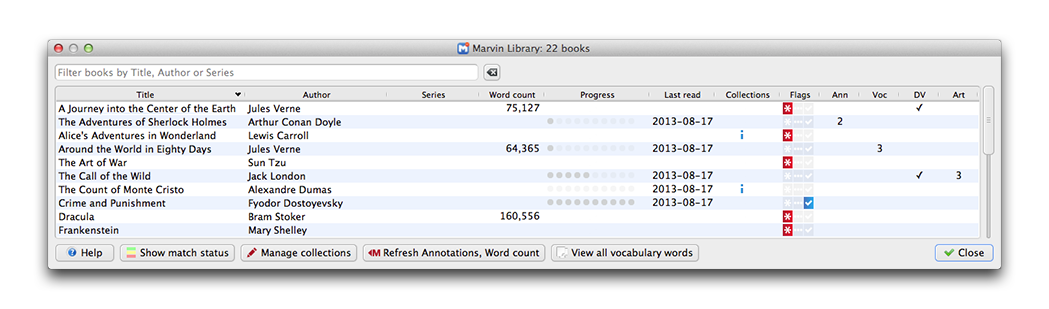
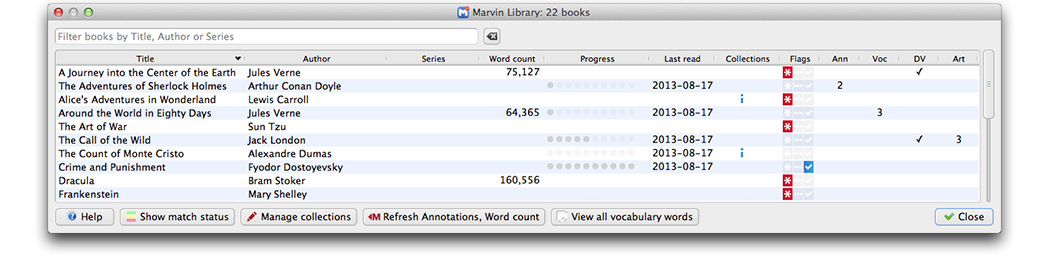
Updated Help file, trimmed Marvin Library image.

diff --git a/help/help.html b/help/help.html
@@ -138,7 +138,8 @@
 <! ~~~~~~~~~~~~~~~ Overview ~~~~~~~~~~~~~~~>
 <div class="topic">
 <h3><a name="overview" id="overview"></a>1. <a href="#toc">Overview</a></h3>
-<p>Marvin XD is an extended driver, offering  advanced remote management of your Marvin library. Think of Marvin XD as a remote control for Marvin. </p><p><img src="images/marvin_library.png" alt=""/></p>
+<p>Marvin XD is an extended driver, offering  advanced  management features for your Marvin library. Think of Marvin XD as a remote control for Marvin. </p>
+<p><img src="images/marvin_library.png" alt=""/></p>
   <div class="list_with_header">
     <p>Features:</p>
     <ul>
@@ -248,11 +249,13 @@
 <hr />
 
 <div class="usage">
-<p class="usage-topic">How do I control which columns are shown or hidden?</p>
+<p class="usage-topic">How do I control which columns are shown or hidden? How do I resize the column widths?</p>
 <img src="images/visible_columns.png" alt="" class="inline" />
-<p class="usage-explanation">To manage visible columns, open Marvin XD, then right-click on any column header. Enable or disable the columns by clicking the individual column name.</p>
+<p class="usage-explanation">To manage visible columns, open Marvin XD, then right-click on any column header. Enable or disable the columns by toggling the checkbox next to the  column name.</p>
 <p class="usage-explanation">When Marvin XD is installed, <strong>Date added</strong>, <strong>Last read</strong> and <strong>Subjects</strong> are hidden by default. </p>
-<p class="usage-explanation"><strong>Title</strong> is always shown; all other columns may be hidden.</p>
+<p class="usage-explanation"><strong>Title</strong> is always shown; all other columns may be shown or hidden.</p>
+<p class="usage-explanation">You can resize individual column widths by positioning your cursor at the right edge of a column header, then clicking and dragging. </p>
+<p class="usage-explanation">The layout of visible columns and columns widths is preserved when closing the Marvin XD window.</p>
 
 <p style="clear:left;">&nbsp;</p>
 </div>
@@ -293,7 +296,7 @@
 <! ~~~~~~~~~~~~~~~ Index of Actions ~~~~~~~~~~~~~~~>
 <div class="topic">
 <h3><a name="actions" id="actions"></a>5. <a href="#toc">Actions reference</a></h3>
-<p>Actions in Marvin XD are initiated by double-clicking a cell, selecting an action from a cell's context menu, or clicking a button in the main window. Hover the cursor over a cell to learn more about the available options.</p>
+<p>Actions in Marvin XD are initiated by double-clicking a cell, selecting an action from a cell's context menu, or clicking a button in the main window. Hover the cursor over a cell in the Marvin XD window to see the available actions for that cell.</p>
 <table width="100%" border="1">
   <tr class="header">
     <th scope="col">Action</th>
@@ -599,7 +602,7 @@
 <! ~~~~~~~~~~~~~~~ Support ~~~~~~~~~~~~~~~>
 <div class="topic">
 <h3><a name="support" id="support"></a>6. <a href="#toc">Support</a></h3>
-<p>For more information on  Marvin XD, visit calibre's Plugins forum. </p>
+<p>For more information on  Marvin XD, visit <a href="http://www.mobileread.com/forums/showthread.php?t=221357">calibre's Plugins forum</a> at MobileRead Forums.</p>
 <p>To support the ongoing development of Marvin XD:</p><form action="https://www.paypal.com/cgi-bin/webscr" method="post" target="_top">
 <input type="hidden" name="cmd" value="_s-xclick">
 <input type="hidden" name="hosted_button_id" value="U8C4PC3TYC9QA">
